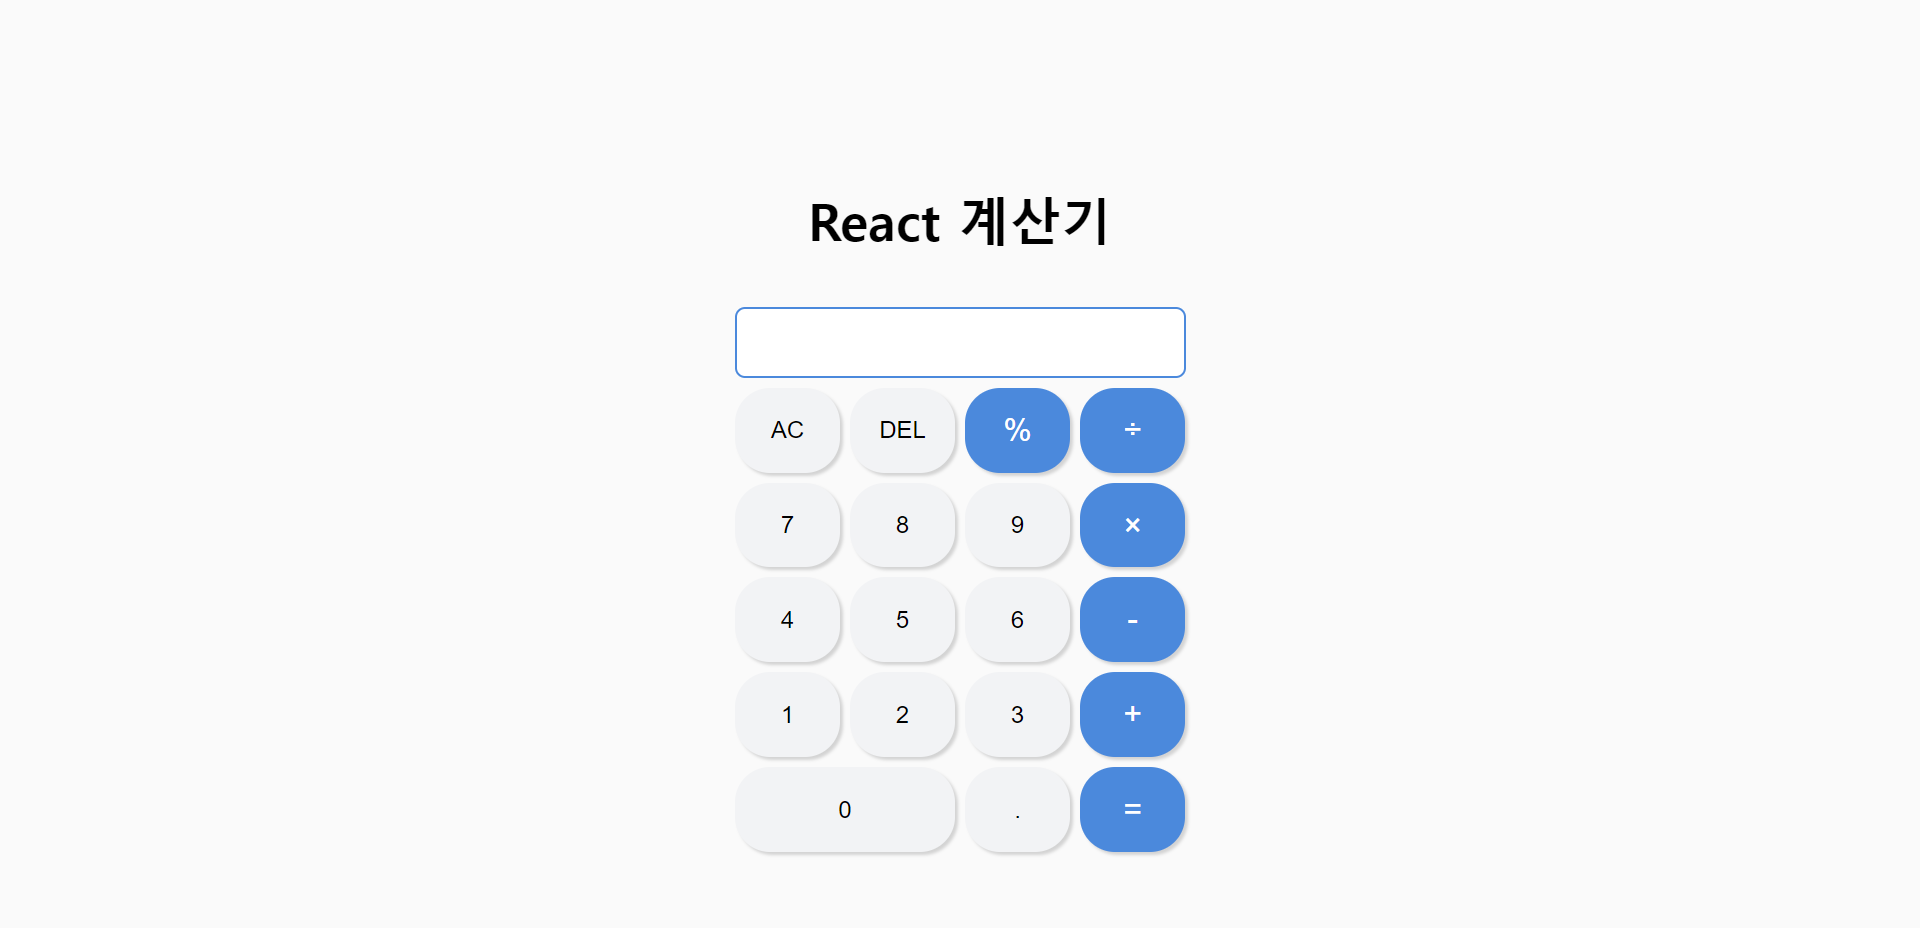
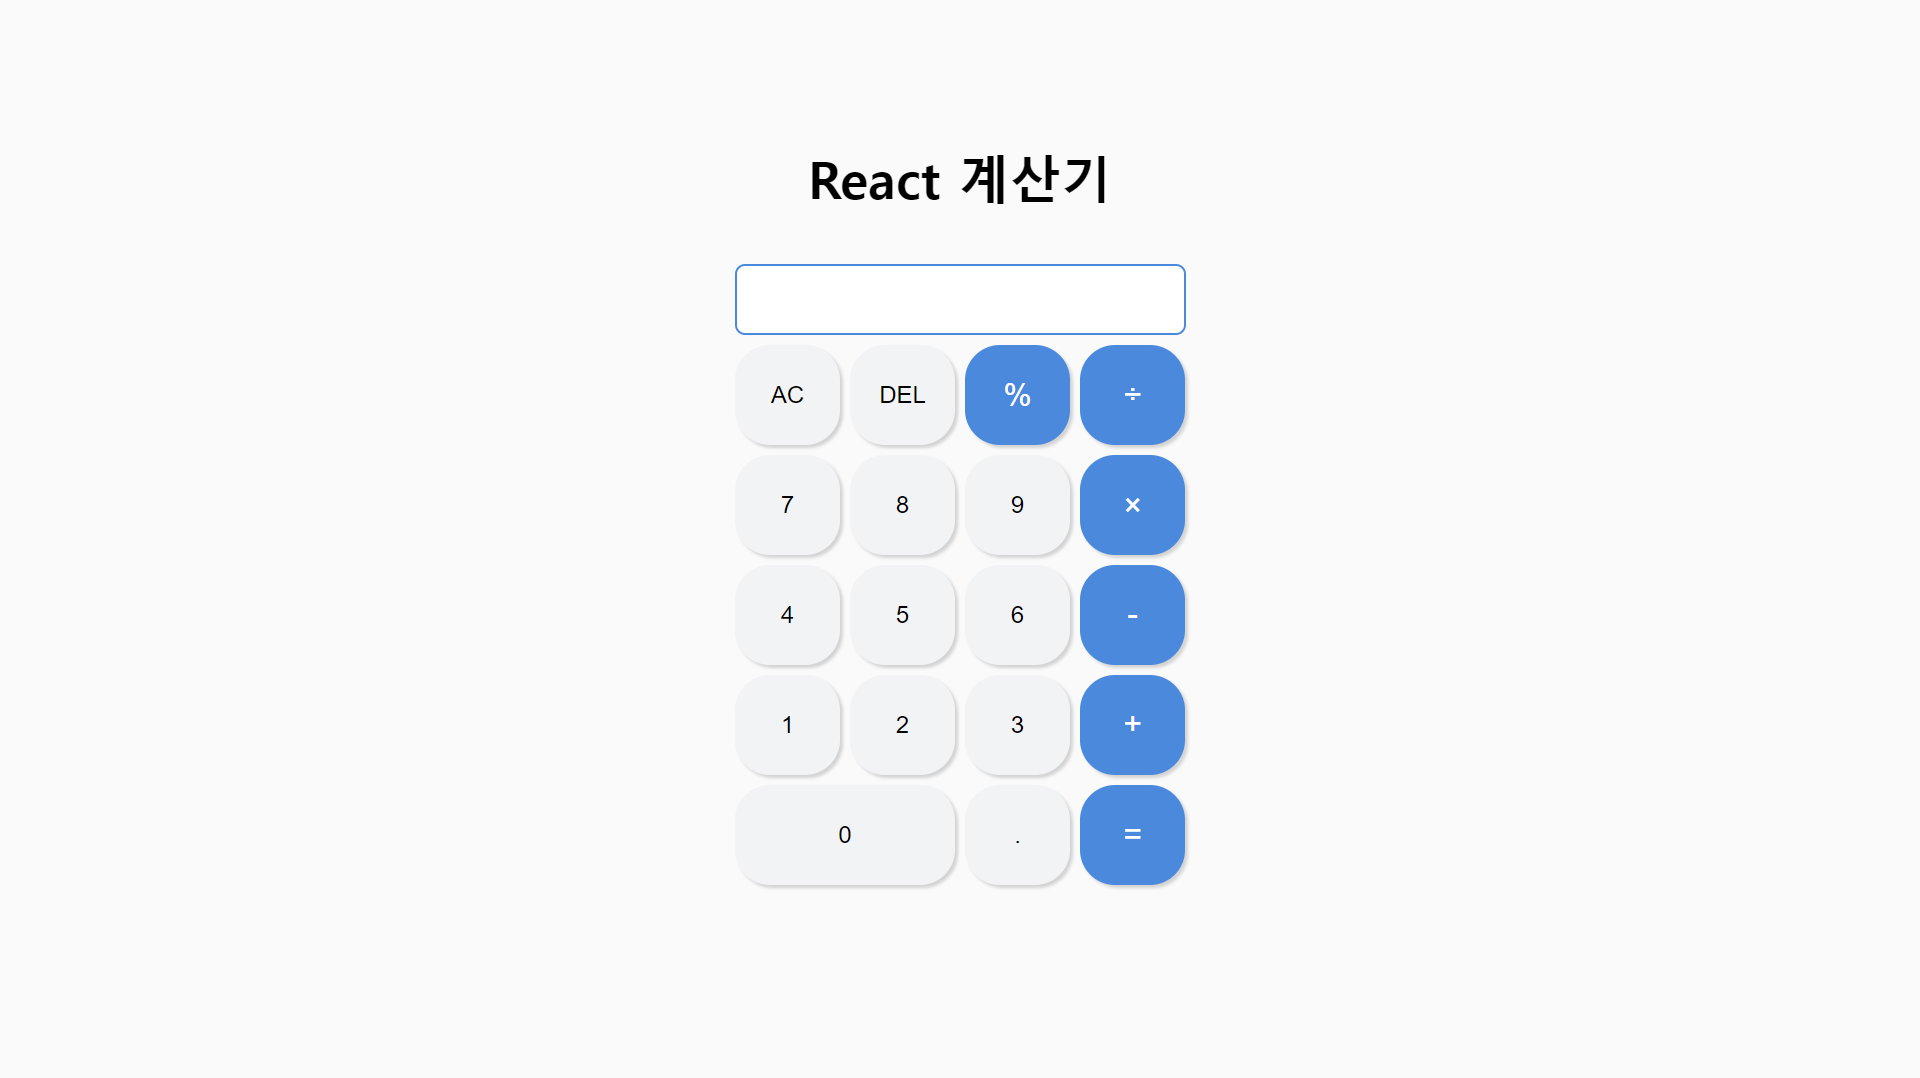
2차 수정

diff --git a/src/App.css b/src/App.css
@@ -1,11 +1,11 @@
-#root {
+/* #root {
   max-width: 1280px;
   margin: 0 auto;
   padding: 2rem;
   text-align: center;
 }
 
-/* .logo {
+.logo {
   height: 6em;
   padding: 1.5em;
   will-change: filter;
